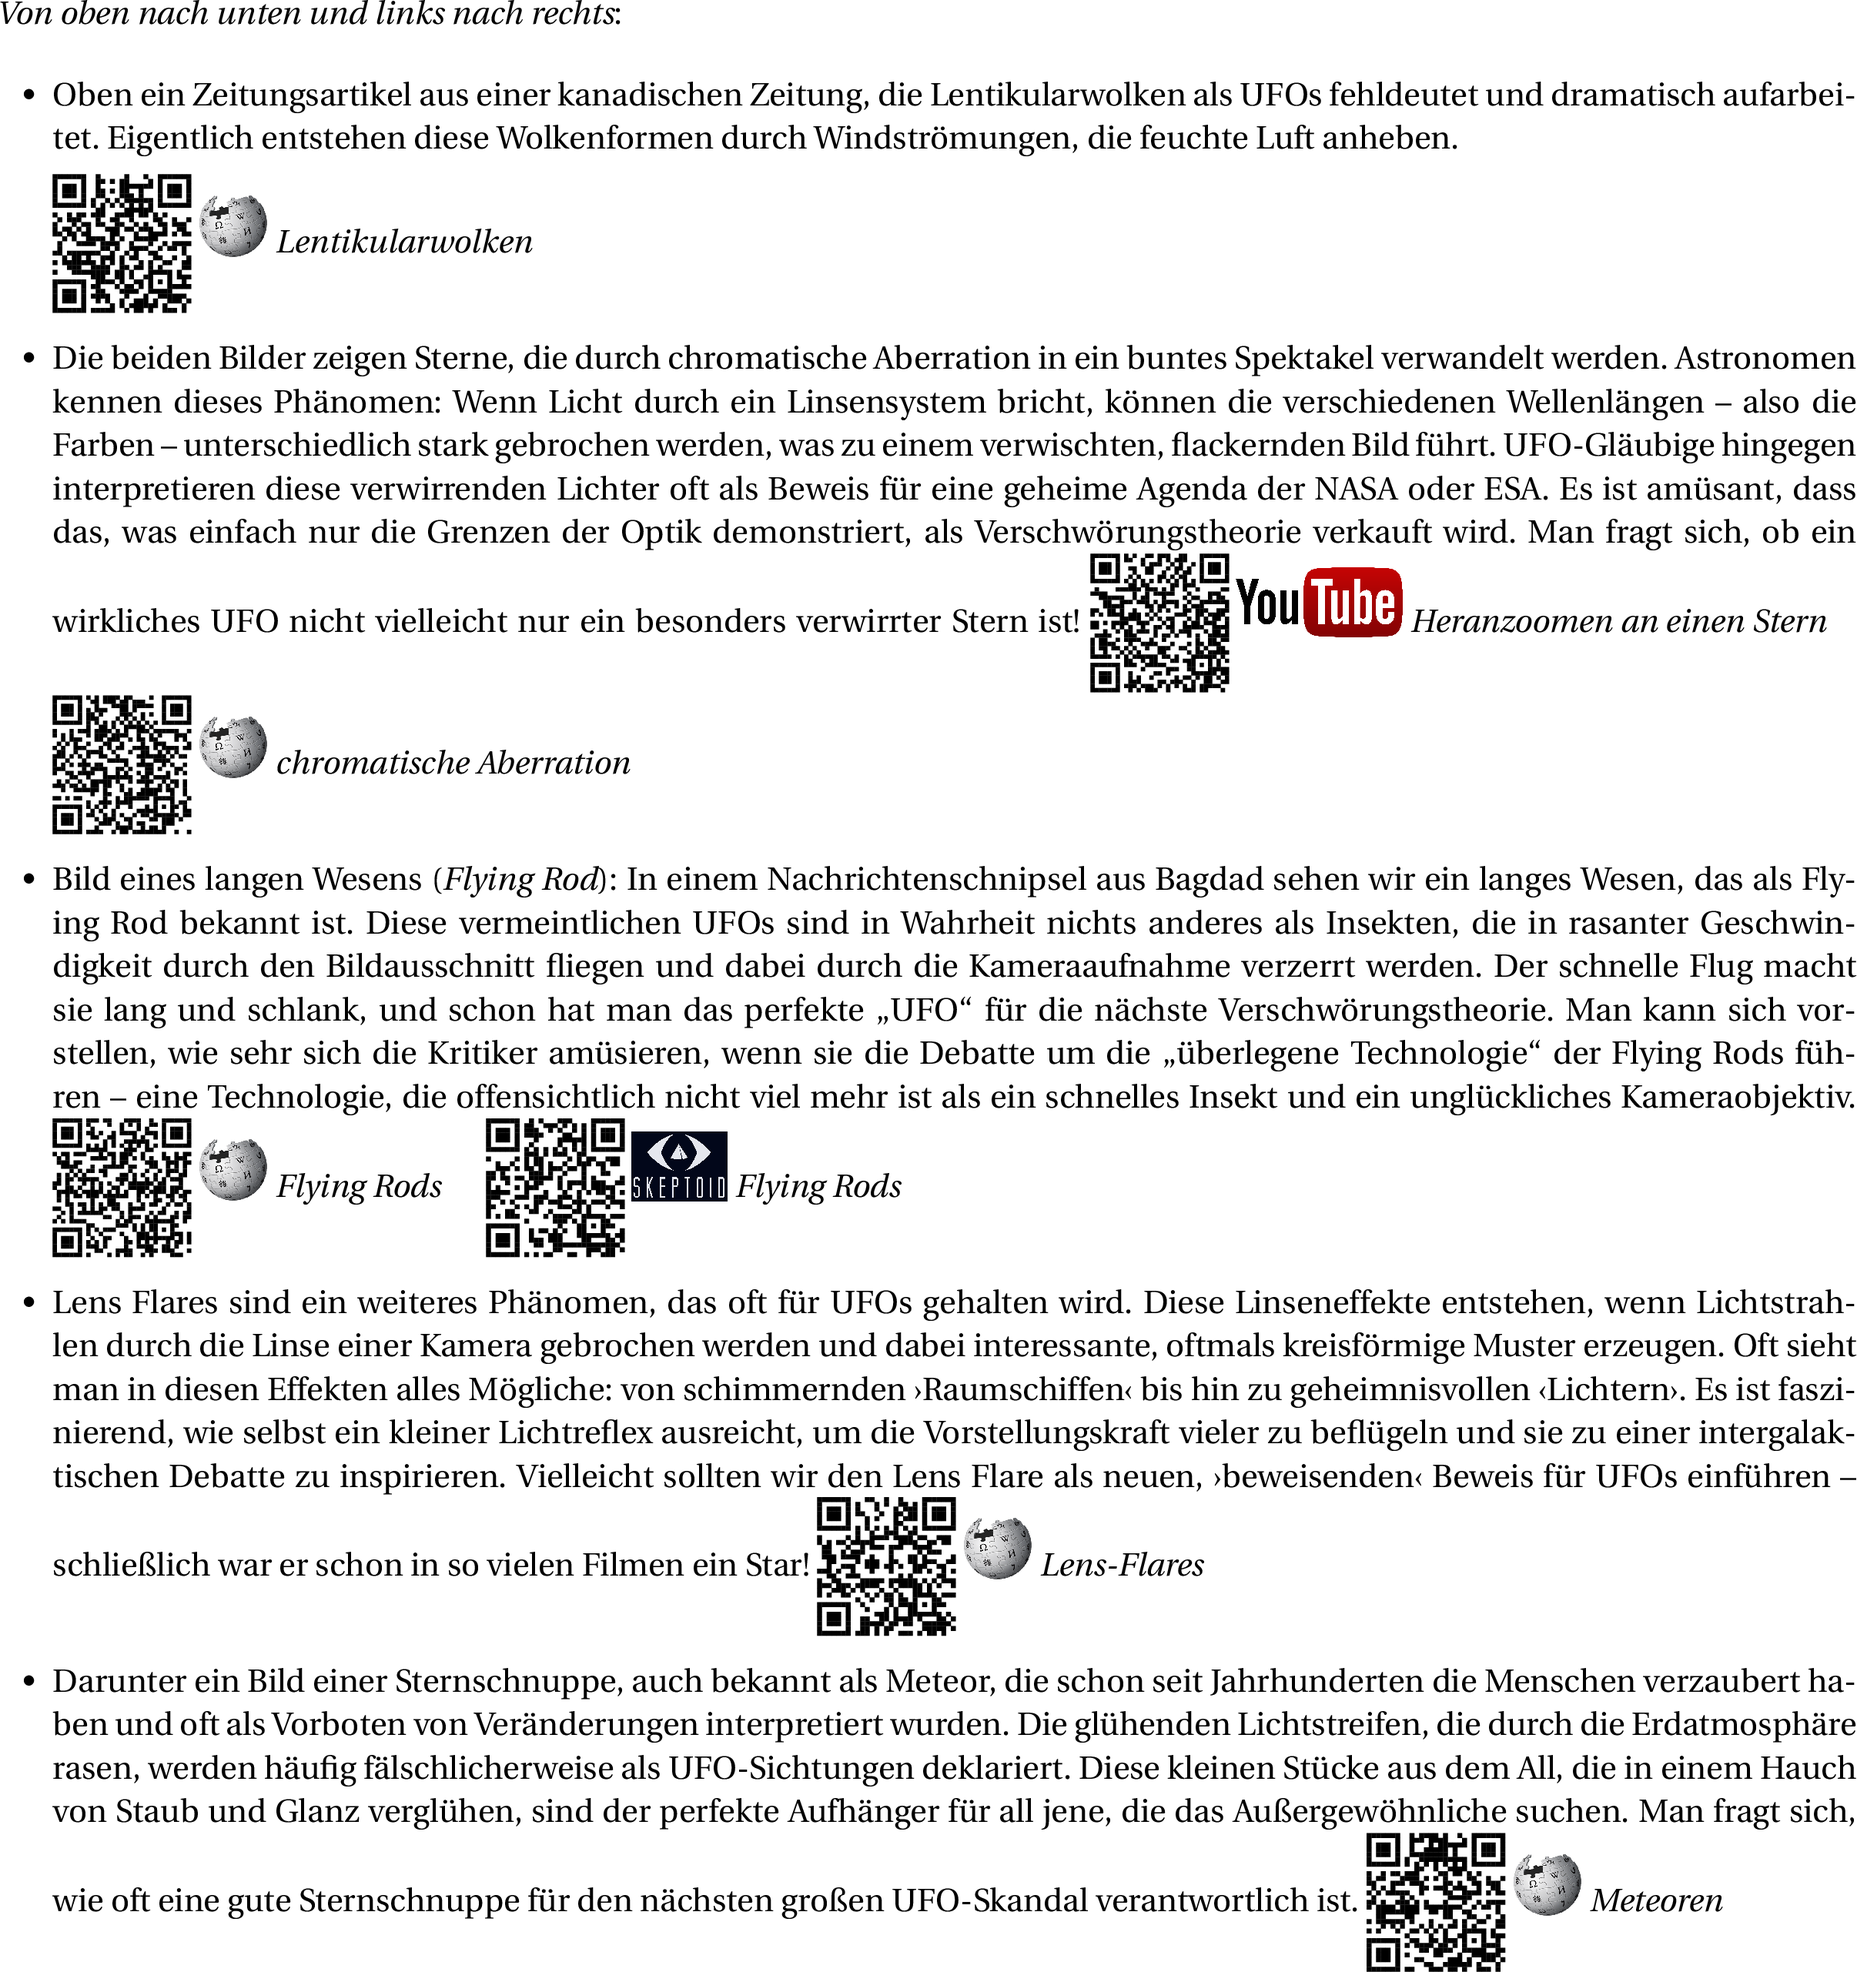
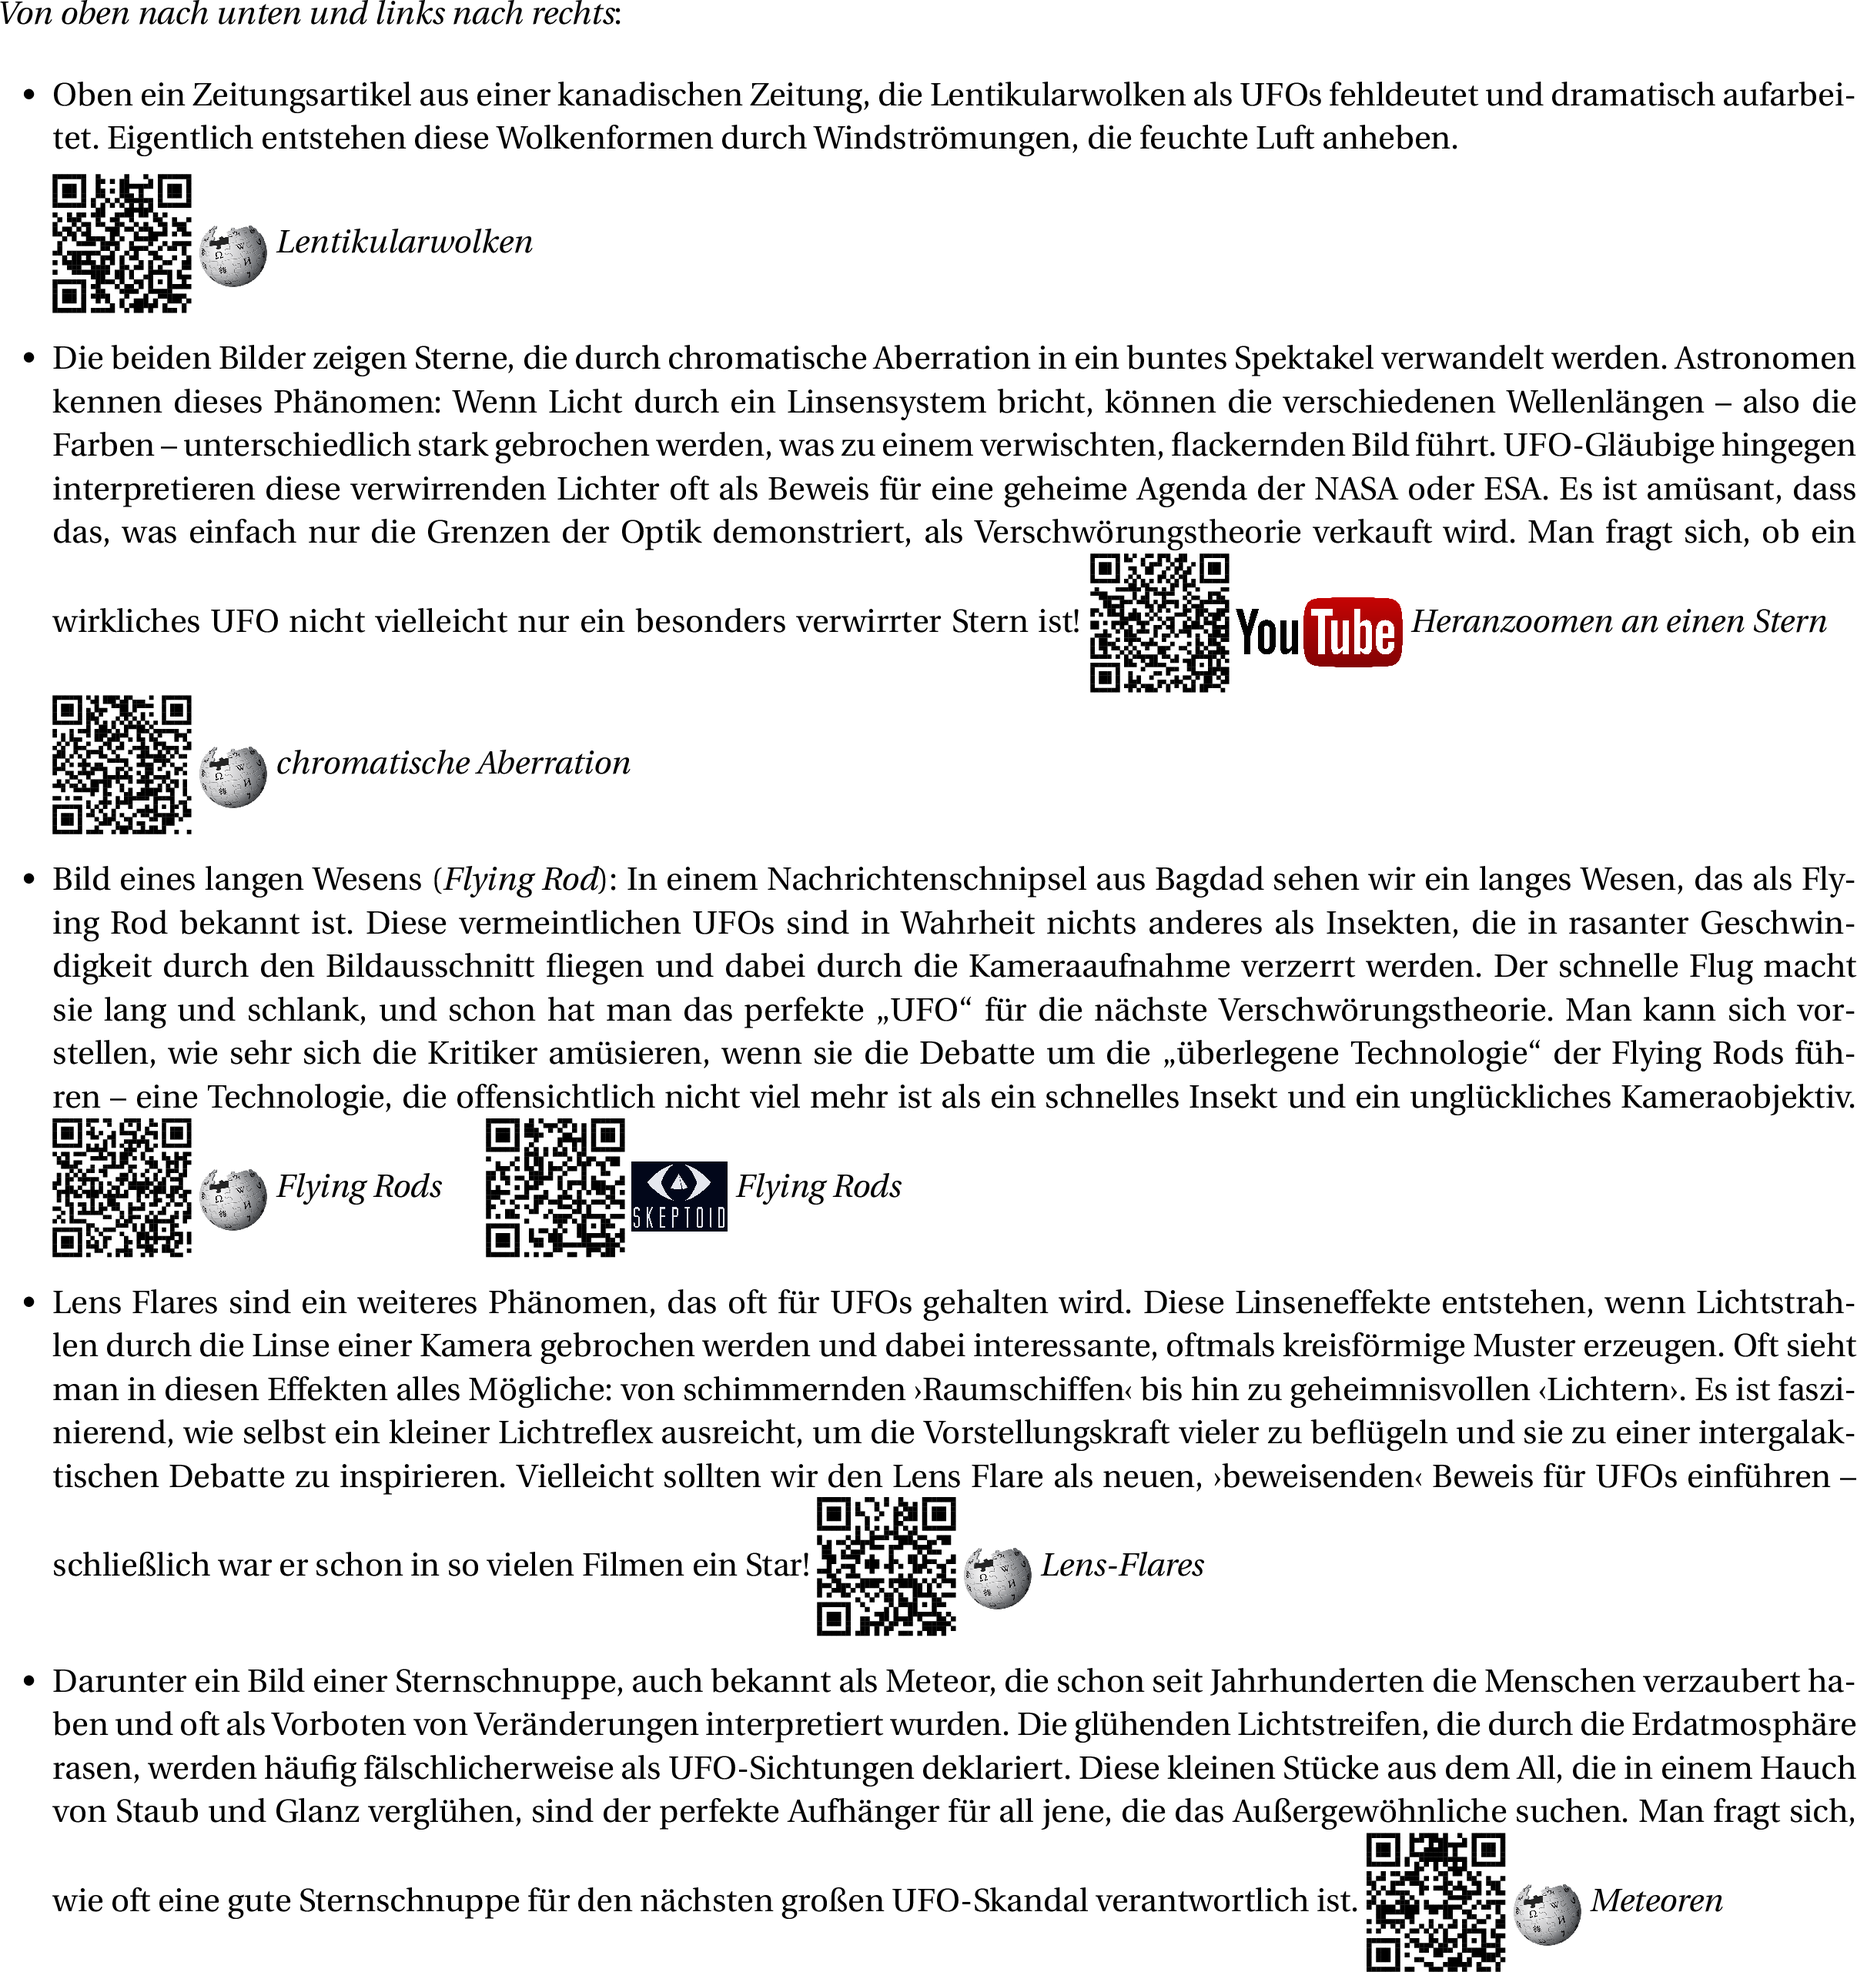
fix

diff --git a/poster/header.tex b/poster/header.tex
@@ -52,7 +52,7 @@
     paperheight=29.7cm % Höhe der Seite (A4)
 }
 
-\newcommand{\wikipedia}{ \raisebox{-2.25ex}{\includegraphics[height=4.5ex]{../wiki.png}}}
-\newcommand{\youtube}{ \raisebox{-2.25ex}{\includegraphics[height=4.5ex]{../youtube.png}}}
-\newcommand{\hoaxilla}{ \raisebox{-2.25ex}{\includegraphics[height=4.5ex]{../hoaxilla.png}}}
-\newcommand{\skeptoid}{ \raisebox{-2.25ex}{\includegraphics[height=4.5ex]{../skeptoid.png}}}
+\newcommand{\wikipedia}{ \raisebox{-2.25ex}{\includegraphics[height=5ex]{../wiki.png}}}
+\newcommand{\youtube}{ \raisebox{-2.25ex}{\includegraphics[height=5ex]{../youtube.png}}}
+\newcommand{\hoaxilla}{ \raisebox{-2.25ex}{\includegraphics[height=5ex]{../hoaxilla.png}}}
+\newcommand{\skeptoid}{ \raisebox{-2.25ex}{\includegraphics[height=5ex]{../skeptoid.png}}}
